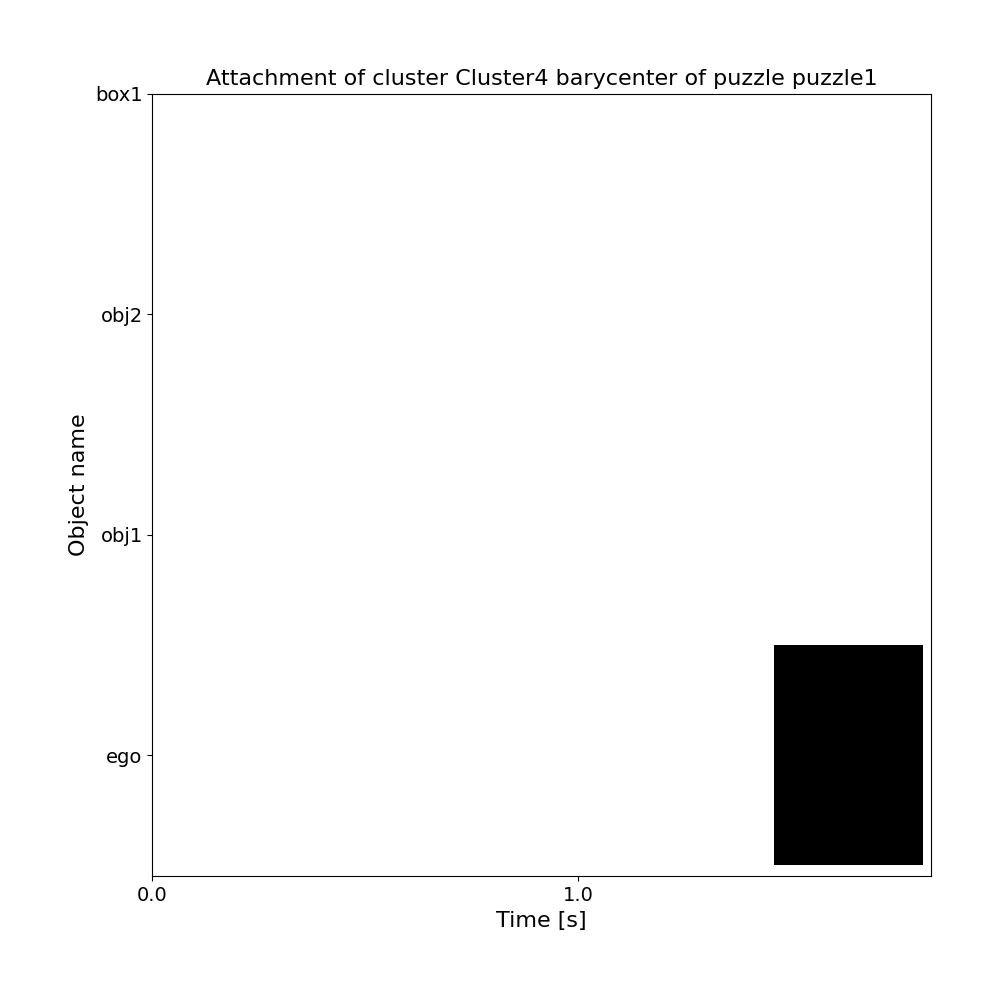
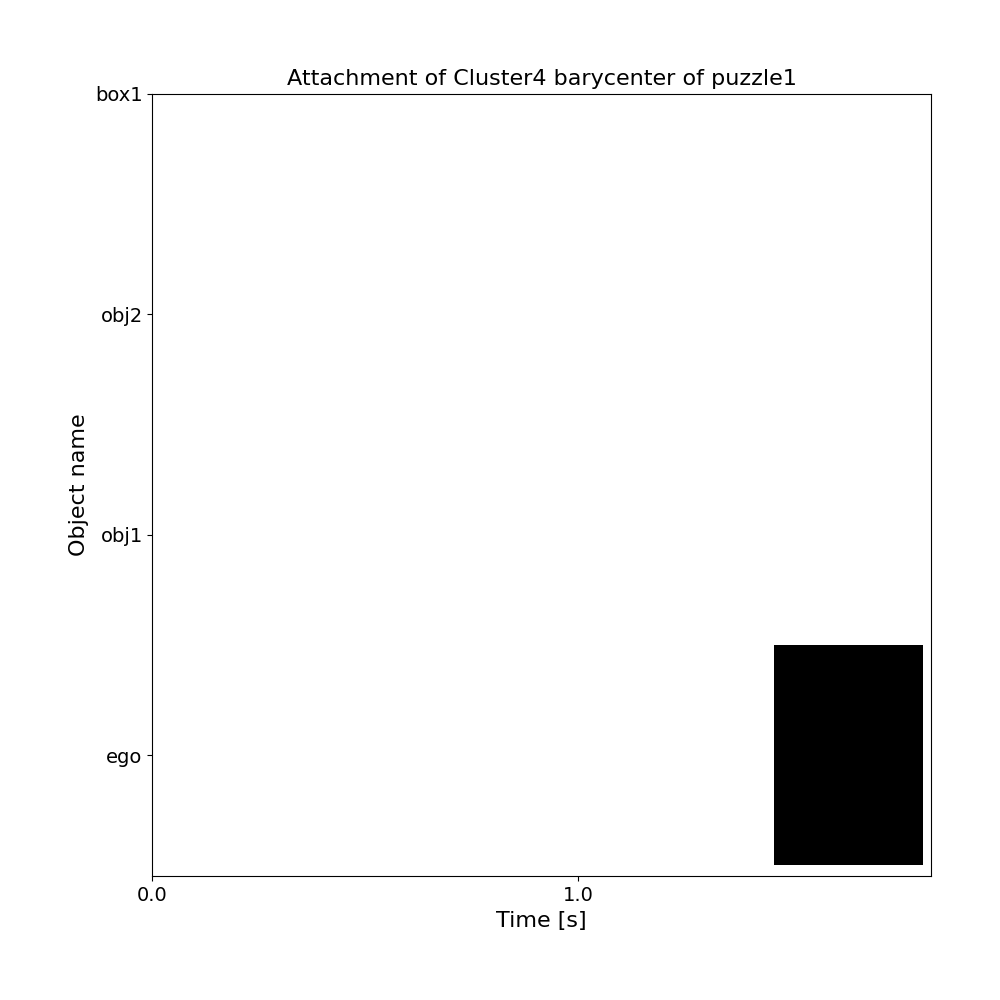
Extract barycenter info and map to skeleton_like seperate dir for extracted info , not validated info bcs of conflicting trajectory of the barycenter

Changed region(s): [[0.217, 0.062, 0.868, 0.093]]

diff --git a/SRC/barycenter2interaction.py b/SRC/barycenter2interaction.py
@@ -118,7 +118,7 @@ for file in os.listdir(clustering_dir):
             ax[i].set_ylabel('Velocity [1/s]')
             # ax[i].set_ylim(0, 1.5*np.max(v[:,i]))
         
-        fig1.suptitle(f"Velocity profiles of cluster {cluster_no} barycenter of puzzle {puzzle_no}", fontsize=16)
+        fig1.suptitle(f"Velocity profiles of  {cluster_no} barycenter of {puzzle_no}", fontsize=16)
         fig1.tight_layout(pad=5.0)
         fig1.savefig(extracted_info_dir+"velocity_profile_"+cluster_no+".png")
         plt.close(fig1)
@@ -194,15 +194,36 @@ for file in os.listdir(clustering_dir):
                 
                     info["interactions"][present_objects[object_i]] = interaction_coordinate
         
-        # IDs=[]
-        # for value in info["interactions"].values():
-        #     IDs.extend(value.keys())
-        # IDs.sort()
+        ego_interaction_time = []
+        print(cluster_no)
+        for value in info["interactions"]["ego"].keys():
+            s,f = value.split(" to ")
+            s = float(s.split(" ")[0])
+            f = float(f.split(" ")[0])
+            ego_interaction_time.append([s,f])
 
-        # for value in info["interactions"].values():
-        #     for key in list(value.keys()):
-        #             #change the key to the index of the key in the IDs
-        #             value[IDs.index(key)] = value.pop(key)
+        info["ego_interaction"] = dict()
+
+        ego_key = [key for key in present_objects.keys() if present_objects[key] == "ego"][0]
+        #check which object interacted with the ego by checking the intersection of the time
+        for key in list(info["interactions"].keys()):
+            if key != "ego":
+                for value in list(info["interactions"][key].keys()):
+                    s,f = value.split(" to ")
+                    s = float(s.split(" ")[0])
+                    f = float(f.split(" ")[0])
+                    for time in ego_interaction_time:
+                        if time[0] < f and time[1] > s:
+                            info["ego_interaction"][str(time[0]) + " s to "+str(s) + " s"] = {"mode":"free", "start-end coordinates":(
+                                data[ego_key,'x'][int(time[0]*100)], data[ego_key,'y'][int(time[0]*100)], data[ego_key,'x'][int(s*100)], data[ego_key,'y'][int(s*100)])}
+                            info["ego_interaction"][str(s) + " s to "+str(f) + " s"] = {"mode":"attached to "+key, "start-end coordinates":(
+                                data[ego_key,'x'][int(s*100)], data[ego_key,'y'][int(s*100)], data[ego_key,'x'][int(f*100)], data[ego_key,'y'][int(f*100)])}
+                            info["ego_interaction"][str(f) + " s to "+str(time[1]) + " s"] = {"mode":"free", "start-end coordinates":(
+                                data[ego_key,'x'][int(f*100)], data[ego_key,'y'][int(f*100)], data[ego_key,'x'][int(time[1]*100)], data[ego_key,'y'][int(time[1]*100)])}
+
+        sorted_ego_interaction_keys = sorted(info["ego_interaction"].keys(), key=lambda x: float(x.split(" ")[0]))
+        info["ego_interaction"] = {key: info["ego_interaction"][key] for key in sorted_ego_interaction_keys}
+        
             
         #saving the information
         with open(info_file_path, 'w') as f:
@@ -217,7 +238,7 @@ for file in os.listdir(clustering_dir):
         else:
             ax1.set_xticks(np.arange(0,T, 1000), np.arange(0,T/100, 10), fontsize=14)
         
-        ax1.set_title(f"Attachment of cluster {cluster_no} barycenter of puzzle {puzzle_no}", fontsize=16)
+        ax1.set_title(f"Attachment of {cluster_no} barycenter of {puzzle_no}", fontsize=16)
         fig2.tight_layout(pad=5.0)
         fig2.savefig( extracted_info_dir+"attachment_"+cluster_no+".png")
         plt.close(fig2)
